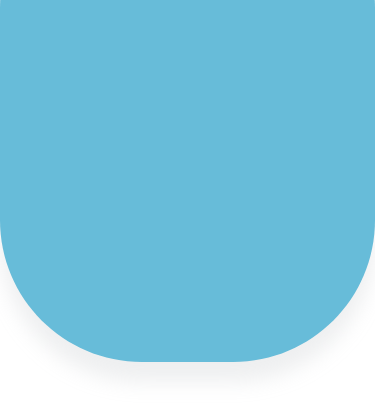
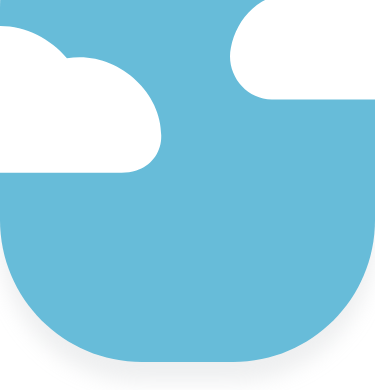
added header and content

Changed region(s): [[0.0, 0.0615, 0.44, 0.4615], [0.616, 0.0, 1.0, 0.2769], [0.0, 0.5538, 1.0, 0.9538]]

diff --git a/app/src/app/components/onboarding/start/start.component.html b/app/src/app/components/onboarding/start/start.component.html
@@ -1,10 +1,17 @@
-<bodY>
+<body>
     <div class="header">
-        <div class="headerbackground">
-            <img src="../../../../assets/onboarding/header.png">
+        <img src="../../../../assets/onboarding/header.png">
+     
+    </div>
+    <div class="content">
+        <div class="logo">
+            <img src="../../../../assets/onboarding/logo.png">
         </div>
-        <div class="headercontent">
-            <img src="../../../../assets/onboarding/headerClouds.png">
+        <div class="health">
+            <img src="../../../../assets/onboarding/health.png">
+        </div>
+        <div class="plus">
+            <img src="../../../../assets/onboarding/plus.png">
         </div>
     </div>
-</bodY>
+</body>

diff --git a/app/src/app/components/onboarding/start/start.component.css b/app/src/app/components/onboarding/start/start.component.css
@@ -1,18 +1,18 @@
 body{
-    background-color: #E0F2F8
-}
-
-.header{
-    margin: auto;
-}
-
-.headerbackground{
-    z-index: 1;
+    background-color: #E0F2F8;
+    z-index: -10;
     position: absolute;
 }
 
-.headercontent{
-    z-index: 2;
-    position: absolute;
+
+.content{
+    display: flex;
+    flex-direction: column;
+    align-items: center;
+
 }
 
+.health{
+    margin-top: 2%;
+    margin-bottom: 15%;
+}
